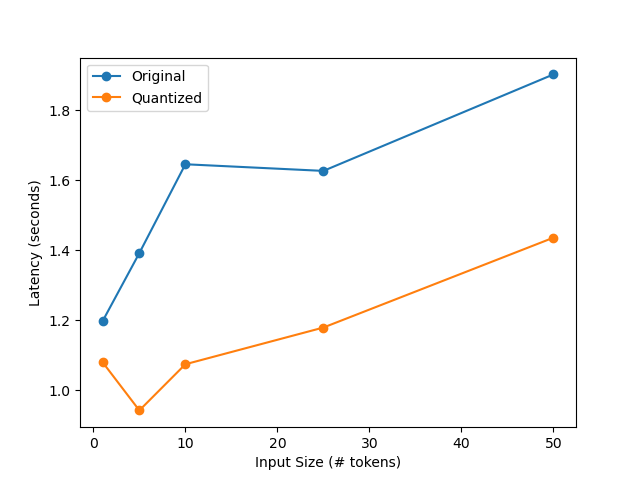
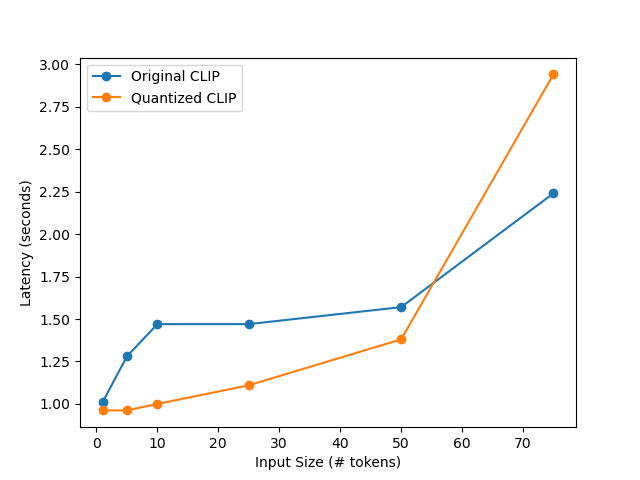
Add BERT and updated CLIP

diff --git a/labs/lab3-quantization/lab3-quantization.md b/labs/lab3-quantization/lab3-quantization.md
@@ -19,6 +19,7 @@ We  used dynamic quantization provided within Pytorch for each of the following 
 > - CLIP
 > - DistilBERT
 > - ALBERT
+> - BERT
 
 2. Why did you choose these models?
 
@@ -28,7 +29,7 @@ We  used dynamic quantization provided within Pytorch for each of the following 
 
 > - We benchmarked CLIP because it provided contrast by being a model that is still used with Natural Language Processing, but in a different application area (image labelling) vs our project (navigation).
 
->    - We benchmarked DistilBERT and ALBERT as they contain much less parameters than original BERT-large and perform almost competitively on may benchmarks. We want to see how thier quantized version fare against quantized original BERT model (especially in accuracy, experiment to be conducted soon.)
+>    - We benchmarked DistilBERT and ALBERT as they contain much less parameters than original BERT-large and perform almost competitively on may benchmarks. We want to see how their quantized version fare against quantized original BERT model (especially in accuracy, experiment to be conducted soon.) We benchmarked BERT to act as a comparison for these.
 
 3. For each model, you will measure model size (in (mega,giga,...)bytes), and inference latency. You will also be varying a parameter such as input size or batch size. What are your hypotheses for how the quantized models will compare to non-quantized models according to these metrics? Do you think latency will track with model size? Explain.
 > Quantization converts FP32 weights to INT8, which should translate to approximately a 4x reduction in size.
@@ -52,6 +53,7 @@ We  used dynamic quantization provided within Pytorch for each of the following 
 > Instead of finding "Great Dane" it finds "Blue Tick" after changing to mobilenet_v3_large with no quantization.
 5. Try to use this to quantize your models. If you're feeling lost and/or you're unable to get this to work on your model [here is a tutorial on using dynamic quantization on a fine-tuned BERT](https://pytorch.org/tutorials/intermediate/dynamic_quantization_bert_tutorial.html) and [here is one quantizing an LSTM language model](https://pytorch.org/tutorials/advanced/dynamic_quantization_tutorial.html). 
 6. Any difficulties you encountered here? Why or why not?
+> Some models that we were originally going to quantize did not work with the torch quantization command because the model "had no attribute eval()"
 
 3: Model size
 ----
@@ -65,11 +67,11 @@ We  used dynamic quantization provided within Pytorch for each of the following 
    | VisualBert| 434 | 178 |
    | CLIP | 591 | 255 |
    | DistilBERT | 254 | 132 |
-   | ViT| ... | ... |
+   | BERT| 420 | 174 |
    | ALBERT| 45 | 23 |
 
 2. Any difficulties you encountered here? Why or why not?
-> ...
+> N/A
 
 4: Latency
 ----
@@ -93,9 +95,9 @@ We  used dynamic quantization provided within Pytorch for each of the following 
    | ---   | ---  | --- |
    | LXMERT| 1.193 | 0.472 |
    | VisualBert| 0.652 | 0.234 |
-   | CLIP | 1.197 | 1.08 |
+   | CLIP | 1.010 | 0.962 |
    | DistilBERT | 0.173 | 0.063 |
-   | ViT| ... | ... |
+   | BERT| 0.390 | 0.157 |
    | ALBERT | 0.362 | 0.127 |
 
 2. Repeat this, varying one of: batch size, input size, other. Plot the results (sorry this isn't a notebook):
@@ -128,6 +130,9 @@ We  used dynamic quantization provided within Pytorch for each of the following 
    
    ### CLIP
    ![clip](plot_clip_quantize.png)
+
+   ### BERT
+   ![bert-base-uncased](plot_bert_quantize.png)
    ---
 4. Any difficulties you encountered here? Why or why not?
 > Had to reinstall torch on device with the above wheel, since the existing torch build did not have QNNPack compiled.
@@ -137,7 +142,7 @@ We  used dynamic quantization provided within Pytorch for each of the following 
 ----
 1. Analyze the results. Do they support your hypotheses? Why or why not? Did you notice any strange or unexpected behavior? What might be the underlying reasons for that behavior?
 > There is an approximate 4-5x reduction in model size after quantization, which supports the hypotheses. This is because of a straighforward reduction in parameter size from FP32 to INT8.
-> Both the quantized models for ALBERT and DistilBERT behave unexpectedly when the input token length increases above 100 tokens. The latency of one forward pass in more than the respective unquantized models after 100 toekns. This is very difficult to explain, and since this happens consistenly for both the models around the same input length, we wonder if this happens for a reason.   
+> Both the quantized models for ALBERT and DistilBERT behave unexpectedly when the input token length increases above 100 tokens. The latency of one forward pass in more than the respective unquantized models after 100 tokens. This is very difficult to explain, and since this happens consistenly for both the models around the same input length, we wonder if this happens for a reason.   
 
 5: Extra
 ----
